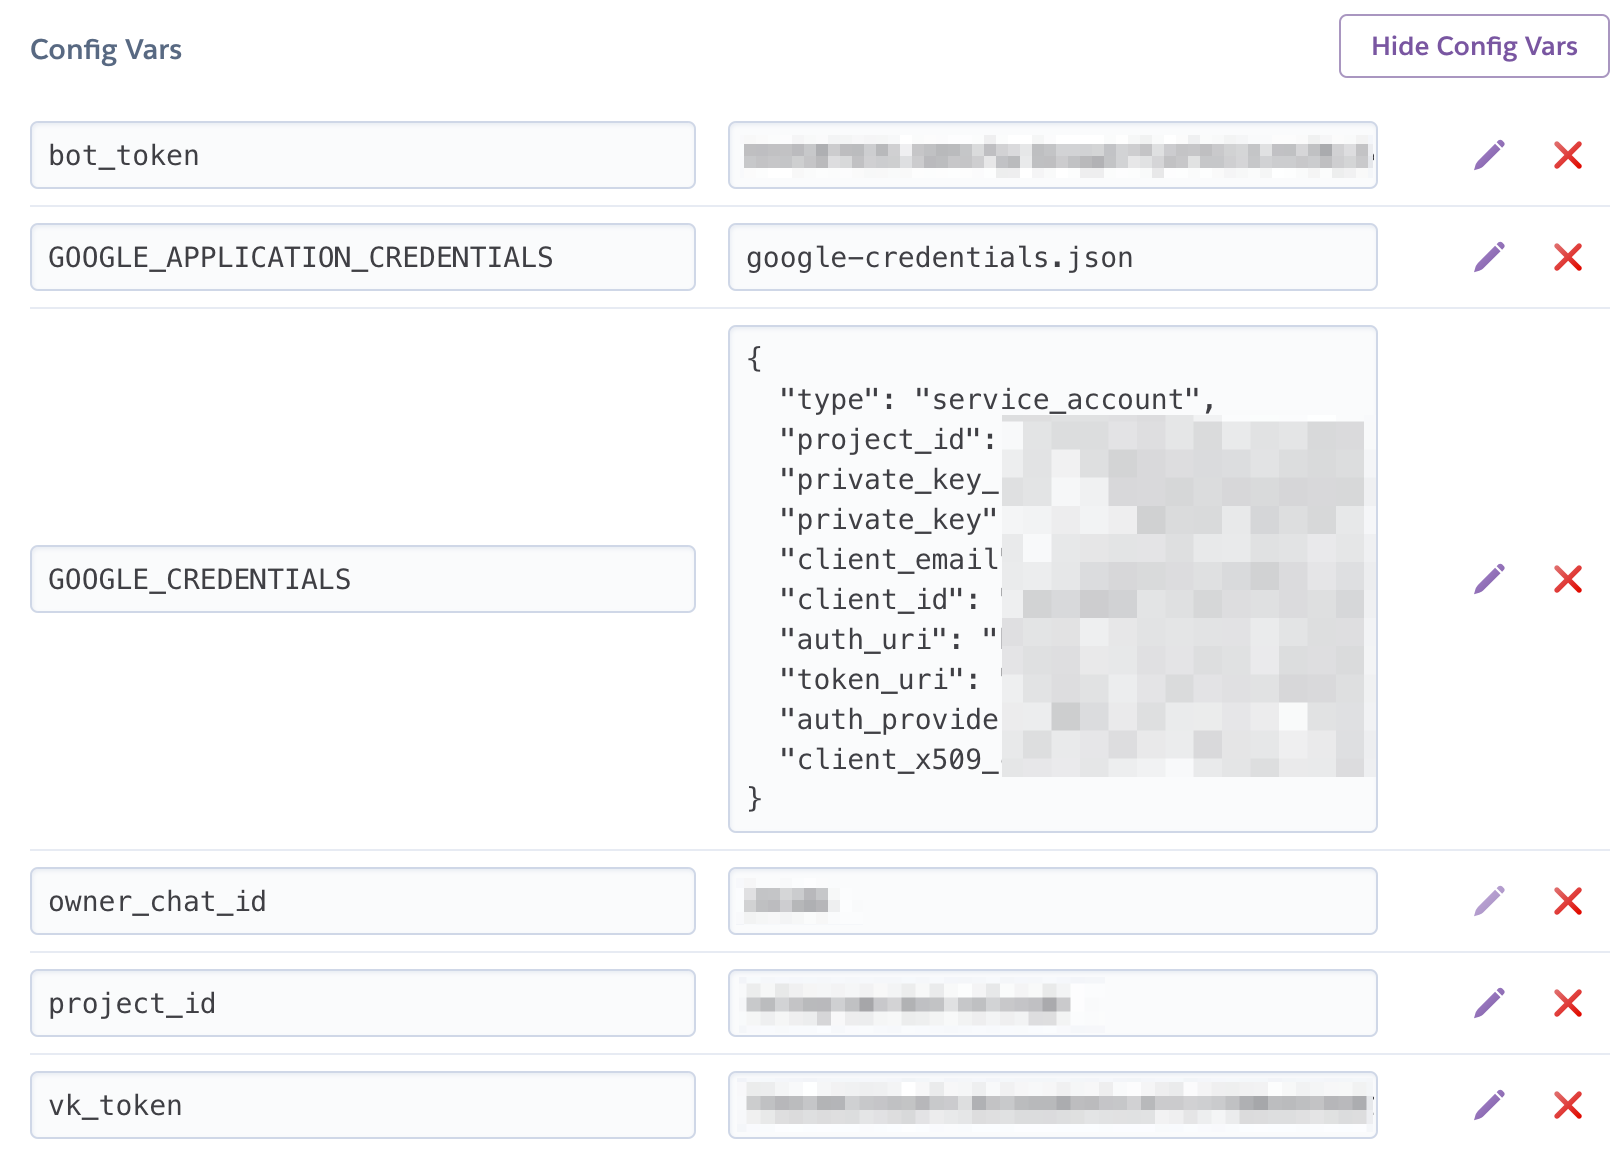
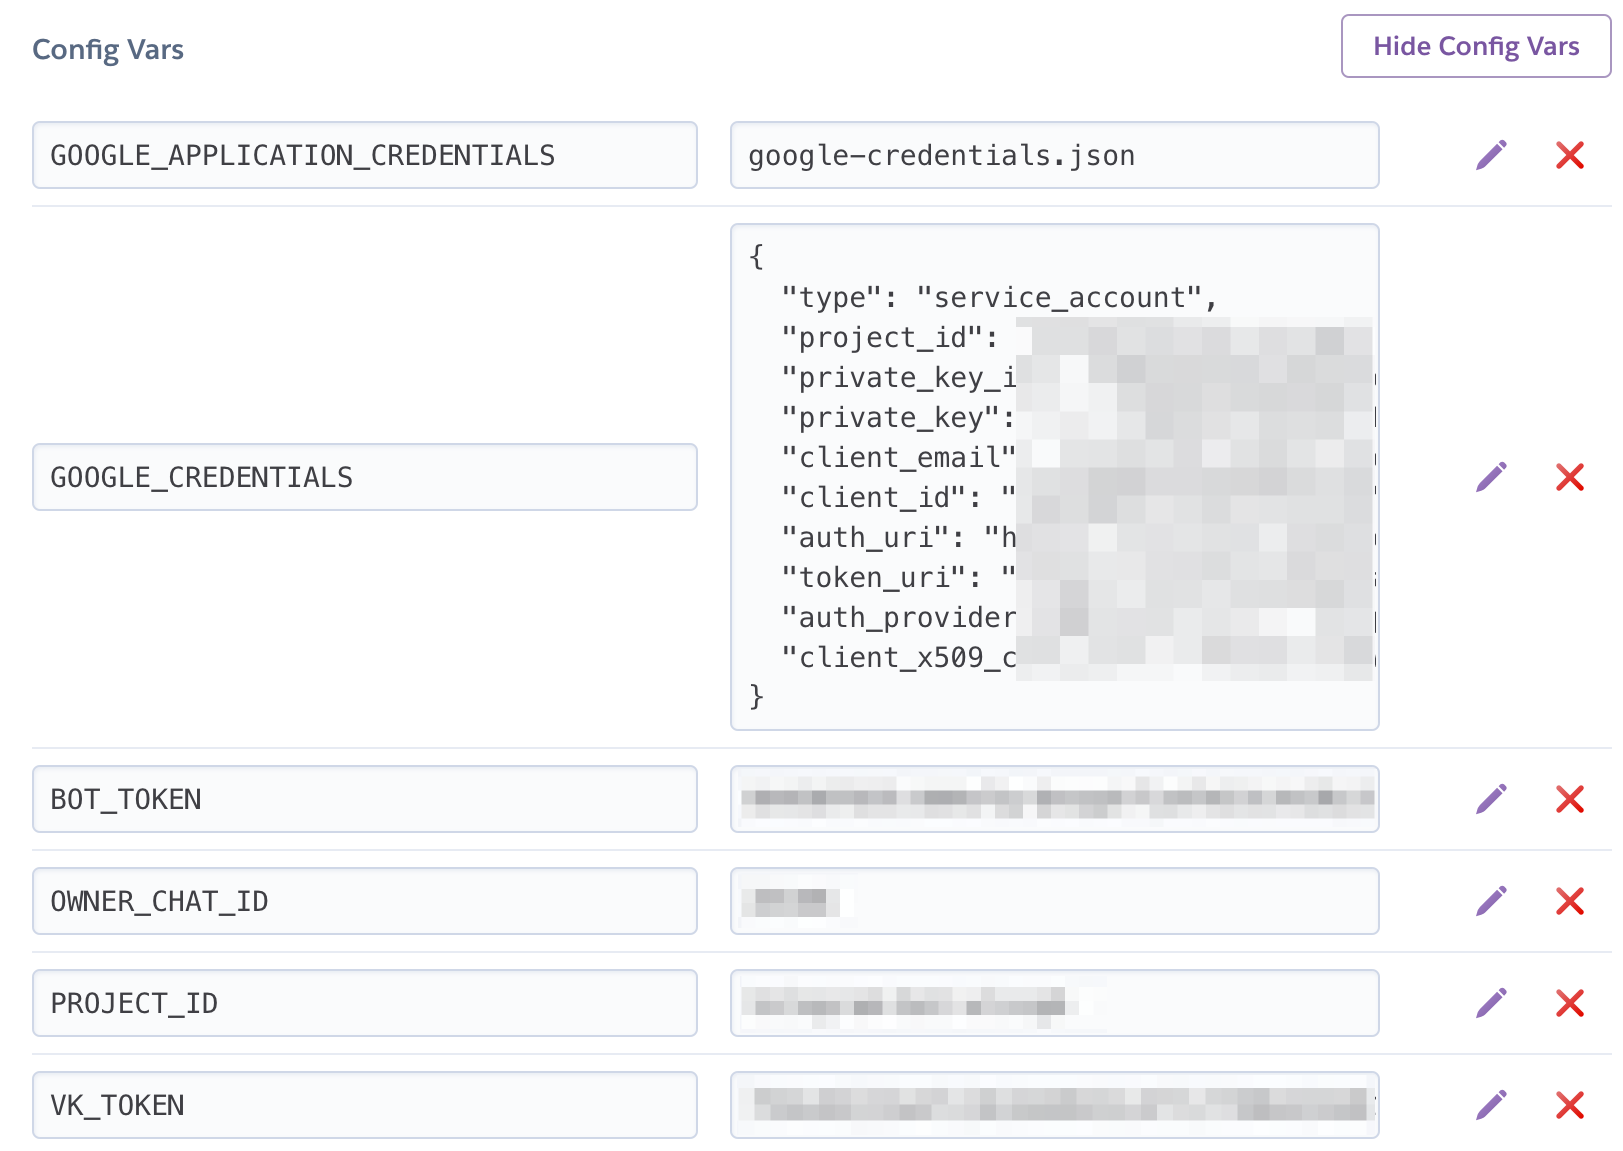
UPPER_CASE для переменных окружения

diff --git a/tg_bot.py b/tg_bot.py
@@ -14,7 +14,7 @@ def start(bot, update):
 def send_answer(bot, update):
     chat_id = update.message.chat_id
     message = update.message.text
-    project_id = os.getenv('project_id')
+    project_id = os.getenv('PROJECT_ID')
     try:
         dialogflow_response = detect_intent_texts(chat_id, message, project_id)
         update.message.reply_text(dialogflow_response)
@@ -23,7 +23,7 @@ def send_answer(bot, update):
 
 
 def main():
-    bot_token = os.getenv('bot_token')
+    bot_token = os.getenv('BOT_TOKEN')
     updater = Updater(bot_token)
     dp = updater.dispatcher
     dp.add_handler(CommandHandler('start', start))
@@ -34,5 +34,5 @@ def main():
 
 if __name__ == "__main__":
     load_dotenv()
-    logger = start_logger(Bot(os.getenv('bot_token')), os.getenv('owner_chat_id'))
+    logger = start_logger(Bot(os.getenv('BOT_TOKEN')), os.getenv('OWNER_CHAT_ID'))
     main()

diff --git a/vk_bot.py b/vk_bot.py
@@ -21,8 +21,8 @@ def send_answer(event, vk_api):
 
 if __name__ == "__main__":
     load_dotenv()
-    vk_token = os.getenv('vk_token')
-    project_id = os.getenv('project_id')
+    vk_token = os.getenv('VK_TOKEN')
+    project_id = os.getenv('PROJECT_ID')
     vk_session = vk_api.VkApi(token=vk_token)
     vk_api = vk_session.get_api()
     longpoll = VkLongPoll(vk_session)

diff --git a/create_intents.py b/create_intents.py
@@ -29,7 +29,7 @@ def create_intent(intent_name, training_phrases_parts, message_texts, project_id
 
 if __name__ == "__main__":
     load_dotenv()
-    project_id = os.getenv('project_id')
+    project_id = os.getenv('PROJECT_ID')
 
     with open('./questions.json') as questions_file:
         phrases = json.load(questions_file)

diff --git a/README.md b/README.md
@@ -23,12 +23,12 @@
 * Форкните данный репозиторий
 
 В разделе **Config Vars** на вкладке **Settings** вашего приложения пропишите:
-- `bot_token` — токен телеграм бота, который вы получили у [@botfather](https://t-do.ru/botfather)
+- `BOT_TOKEN` — токен телеграм бота, который вы получили у [@botfather](https://t-do.ru/botfather)
 - `GOOGLE_APPLICATION_CREDENTIALS`=google-credentials.json
 - `GOOGLE_CREDENTIALS` — содержимое файла google-credentials.json
-- `owner_chat_id` — ваш id в телеграме для отправки ботом сервисных сообщений вам. Можно узнать у бота [@userinfobot](https://t-do.ru/userinfobot)
-- `project_id` — название проекта в Dialogflow (написан в настройках агента)
-- `vk_token` — токен от VK
+- `OWNER_CHAT_ID` — ваш id в телеграме для отправки ботом сервисных сообщений вам. Можно узнать у бота [@userinfobot](https://t-do.ru/userinfobot)
+- `PROJECT_ID` — название проекта в Dialogflow (написан в настройках агента)
+- `VK_TOKEN` — токен от VK
 
 Подтяните ключи из переменной `GOOGLE_CREDENTIALS` вот по этой [инструкции](https://stackoverflow.com/a/56818296/640260)
 
@@ -50,11 +50,11 @@ heroku logs --app APP_NAME
 
 ## Как запустить на локальной машине
   1. В папке с ботом создайте `.env` файл и пропишите туда:
-  - `bot_token` — токен телеграм бота, который вы получили у [@botfather](https://t-do.ru/botfather)
+  - `BOT_TOKEN` — токен телеграм бота, который вы получили у [@botfather](https://t-do.ru/botfather)
   - `GOOGLE_APPLICATION_CREDENTIALS` — путь до файла google-credentials.json (который вы скачали)
-  - `owner_chat_id` — ваш id в телеграме для отправки ботом сервисных сообщений вам. Можно узнать у бота [@userinfobot](https://t-do.ru/userinfobot)
-  - `project_id` — название проекта в Dialogflow (написан в настройках агента)
-  - `vk_token` — токен от VK
+  - `OWNER_CHAT_ID` — ваш id в телеграме для отправки ботом сервисных сообщений вам. Можно узнать у бота [@userinfobot](https://t-do.ru/userinfobot)
+  - `PROJECT_ID` — название проекта в Dialogflow (написан в настройках агента)
+  - `VK_TOKEN` — токен от VK
   2. Установите зависимости:
   ```bash
   pip3 install -r requirements.txt
